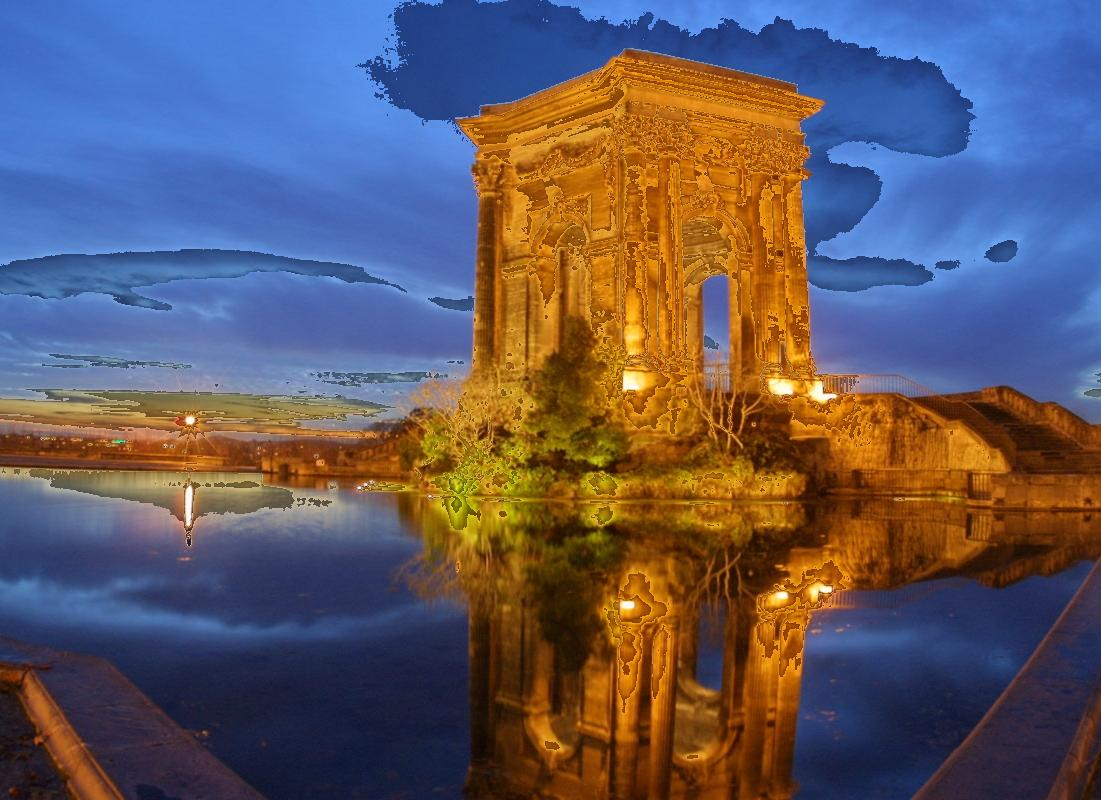
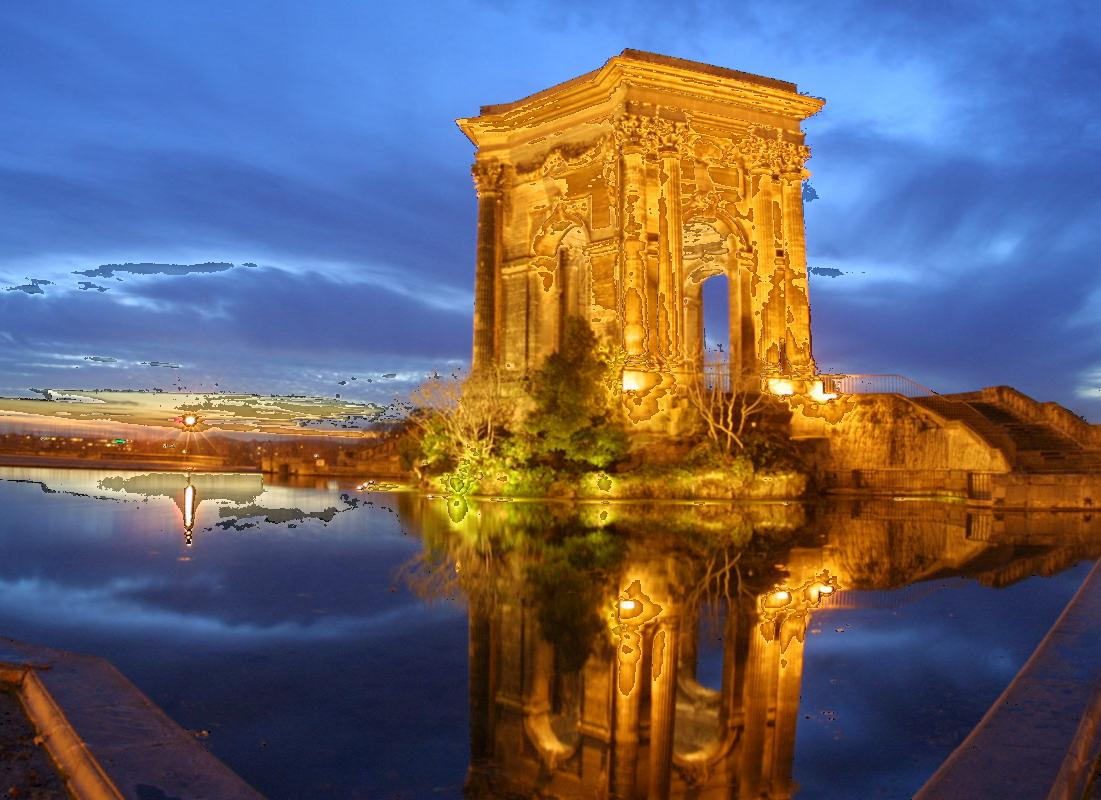
stuff, undefined stuff

diff --git a/hdr.py b/hdr.py
@@ -24,16 +24,20 @@ np=dict()
 
 for x in range(image_width):
 	for y in range(image_height):
+		l_tot=0
 		for i in range(numImg):
 			p[i] = im[i].getpixel((x,y))
-			l[i]=math.sqrt(p[i][0]*p[i][0]+p[i][1]*p[i][1]+p[i][2]*p[i][2])/(255.0*math.sqrt(3))
-			v[i]=math.fabs(l[i]-0.5)
+			l[i]=(max((p[i][0],p[i][1],p[i][2]))-min((p[i][0],p[i][1],p[i][2])))/510.0
+			l_tot+=l[i]
+			
+		for i in range(numImg):
+			v[i]=l[i]/l_tot
 		
 		b = dict(map(lambda item: (item[1],item[0]),v.items()))
-		min_key = b[min(b.keys())]
+		best_one = b[max(b.keys())]
 		
 		for i in range(3):
-			np[i]=p[min_key][i]
+			np[i]=p[best_one][i]
 
 		im[1].putpixel((x,y),(np[0],np[1],np[2]))
 
